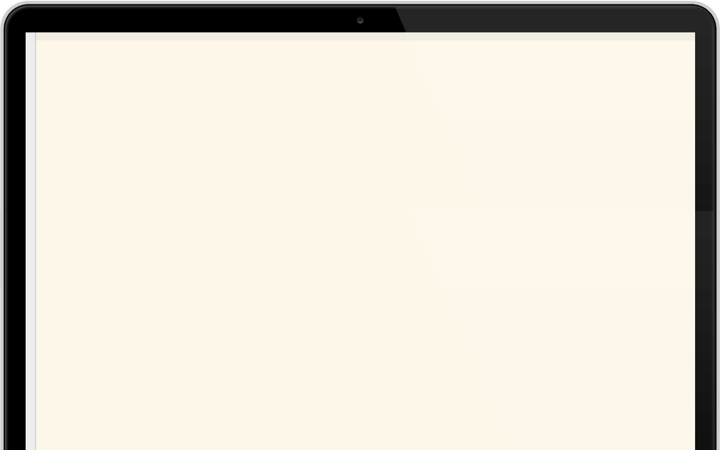
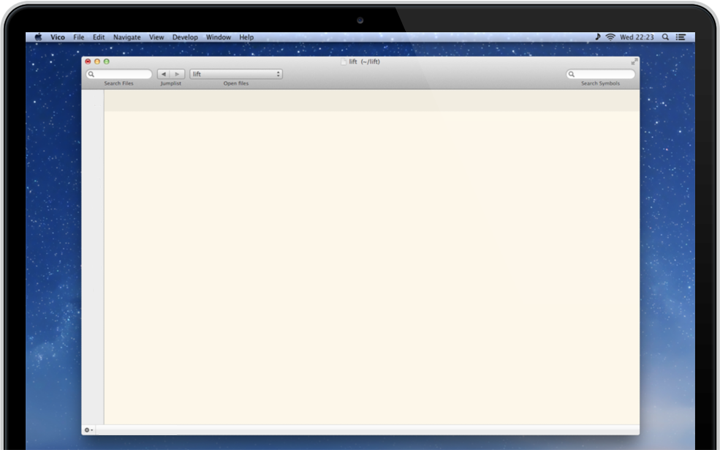
Use MBP image with desktop visible.

Changed region(s): [[0.0306, 0.0622, 0.9778, 1.0]]

diff --git a/src/main/webapp/index.html b/src/main/webapp/index.html
@@ -132,7 +132,7 @@
         display: none;
       }
       #teasers pre {
-        font-size: 14px;
+        font-size: 16px;
 
         background: url('/images/macbook-pro-vico.png');
         border-top-left-radius: 25px; /* match mbp corners */
@@ -145,7 +145,7 @@
         height: 450px;
 
         margin: 0 40px;
-        padding: 36px 42px 0;
+        padding: 93px 112px 0;
       }
 
       #teasers {
